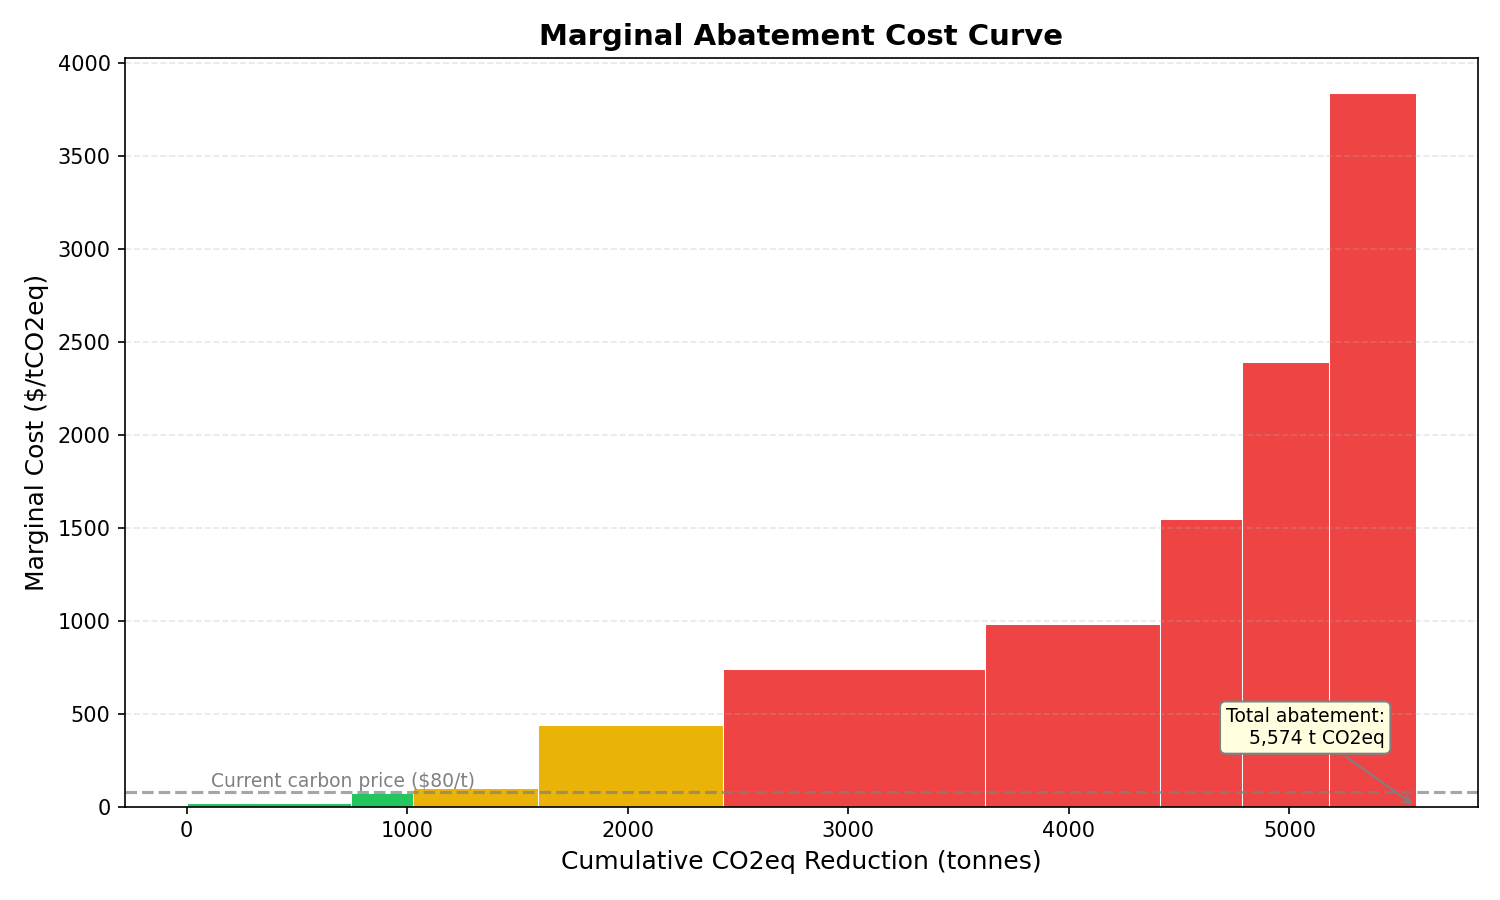
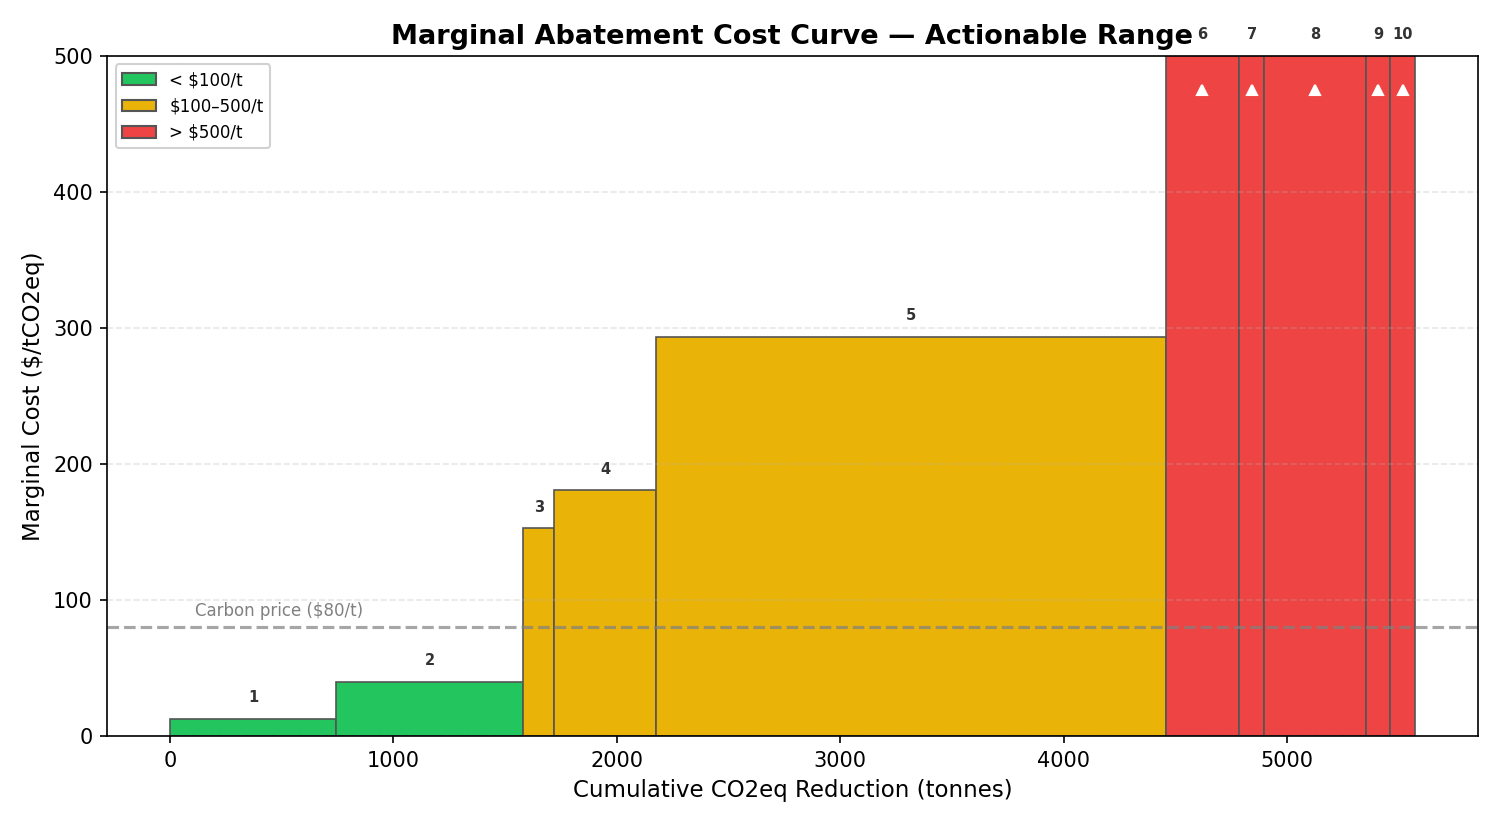
feat: improve MACC chart with dual views, numbered bars, and reference table
- Add linear capped ($500) version for presentation slides
- Add log-scale full-range version for appendix
- Number bars and print reference table to console
- Increase Pareto resolution from 15 to 50 points
- Add color-coded legend and visible bar edges

diff --git a/src/charts.py b/src/charts.py
@@ -291,25 +291,20 @@ def plot_safety_comparison(
 def plot_macc(
     pareto_results: list[dict[str, Any]],
     output_path: str = "outputs/charts/macc.png",
-) -> str:
+) -> tuple[str, str]:
     """
     Plot Marginal Abatement Cost Curve (MACC) from Pareto frontier data.
 
-    Each bar represents a Pareto step: width = CO2 reduction, height = shadow carbon price.
-    Bars are colored by cost: green (<$100/t), yellow ($100-$500/t), red (>$500/t).
+    Produces two charts:
+    - Linear version (capped y-axis) for presentation slides → output_path
+    - Log-scale full-range version for appendix → macc_full_range.png
 
-    Parameters
-    ----------
-    pareto_results : list[dict]
-        Output from run_pareto_sweep(). Each dict has keys:
-        feasible, total_co2e_tonnes, total_cost_usd, shadow_carbon_price.
-    output_path : str
-        File path for the saved PNG.
+    Each bar is numbered and keyed to a reference table printed to console.
 
     Returns
     -------
-    str
-        The path to the saved chart file.
+    tuple[str, str]
+        (linear_chart_path, log_chart_path)
     """
     # Filter to feasible points with a shadow_carbon_price
     steps = [
@@ -319,12 +314,12 @@ def plot_macc(
 
     if not steps:
         print("WARNING: No feasible Pareto points with shadow prices to plot MACC.")
-        return output_path
+        return output_path, output_path
 
     # Sort by shadow_carbon_price ascending (cheapest abatement first)
     steps.sort(key=lambda r: r["shadow_carbon_price"])
 
-    # Base case is the max-emissions feasible point (first feasible point, no shadow price)
+    # Base case is the max-emissions feasible point
     base_co2 = max(
         r["total_co2e_tonnes"]
         for r in pareto_results
@@ -335,6 +330,7 @@ def plot_macc(
     bar_widths = []
     bar_heights = []
     bar_lefts = []
+    bar_steps = []  # keep step data for reference table
     cumulative = 0.0
 
     for step in steps:
@@ -345,70 +341,124 @@ def plot_macc(
         bar_lefts.append(cumulative)
         bar_widths.append(width)
         bar_heights.append(step["shadow_carbon_price"])
+        bar_steps.append(step)
         cumulative = reduction
 
     if not bar_widths:
         print("WARNING: No positive CO2 reduction steps for MACC.")
-        return output_path
+        return output_path, output_path
 
-    # Color bars by cost: green < $100, yellow $100-$500, red > $500
+    n_bars = len(bar_widths)
+
+    # Color bars by cost tier
     bar_colors = []
+    tier_labels = []
     for h in bar_heights:
         if h < 100:
             bar_colors.append("#22c55e")  # green
+            tier_labels.append("Low")
         elif h < 500:
             bar_colors.append("#eab308")  # yellow
+            tier_labels.append("Mid")
         else:
             bar_colors.append("#ef4444")  # red
+            tier_labels.append("High")
 
-    fig, ax = plt.subplots(figsize=(10, 6))
-
-    # Draw bars (waterfall-style step bars)
-    ax.bar(
-        bar_lefts,
-        bar_heights,
-        width=bar_widths,
-        align="edge",
-        color=bar_colors,
-        edgecolor="white",
-        linewidth=0.5,
-    )
-
-    # Reference line at current carbon price ($80/t)
-    ax.axhline(y=80, color="gray", linestyle="--", linewidth=1.5, alpha=0.7)
-    ax.text(
-        cumulative * 0.02,
-        82,
-        "Current carbon price ($80/t)",
-        fontsize=9,
-        color="gray",
-        va="bottom",
-    )
-
-    # Annotate total abatement potential
-    ax.annotate(
-        f"Total abatement:\n{cumulative:,.0f} t CO2eq",
-        xy=(cumulative, 0),
-        xytext=(-15, 30),
-        textcoords="offset points",
-        fontsize=9,
-        ha="right",
-        arrowprops=dict(arrowstyle="->", color="gray"),
-        bbox=dict(boxstyle="round,pad=0.3", facecolor="lightyellow", edgecolor="gray"),
-    )
-
-    ax.set_xlabel("Cumulative CO2eq Reduction (tonnes)", fontsize=12)
-    ax.set_ylabel("Marginal Cost ($/tCO2eq)", fontsize=12)
-    ax.set_title("Marginal Abatement Cost Curve", fontsize=14, fontweight="bold")
-    ax.grid(True, alpha=0.3, linestyle="--", axis="y")
-
-    plt.tight_layout()
+    # Print reference table
+    print(f"\n  MACC Reference Table ({n_bars} abatement steps)")
+    print(f"  {'#':>3}  {'Tier':<5} {'Marginal Cost':>14} {'CO2 Reduced':>12} {'Cumulative':>12}")
+    print(f"  {'---':>3}  {'-----':<5} {'-' * 14:>14} {'-' * 12:>12} {'-' * 12:>12}")
+    running = 0.0
+    for i, (w, h, t) in enumerate(zip(bar_widths, bar_heights, tier_labels), 1):
+        running += w
+        print(f"  {i:>3}  {t:<5} {'${:,.0f}/t'.format(h):>14} {'{:,.0f} t'.format(w):>12} {'{:,.0f} t'.format(running):>12}")
 
     os.makedirs(os.path.dirname(output_path), exist_ok=True)
-    fig.savefig(output_path, dpi=150)
-    plt.close(fig)
 
-    return output_path
+    def _draw_macc(ax, yscale, y_cap=None):
+        """Draw MACC bars on the given axes."""
+        ax.bar(
+            bar_lefts,
+            bar_heights,
+            width=bar_widths,
+            align="edge",
+            color=bar_colors,
+            edgecolor="#555555",
+            linewidth=0.8,
+        )
+
+        if yscale == "log":
+            ax.set_yscale("log")
+            ax.set_ylim(bottom=max(0.5, min(bar_heights) * 0.5))
+
+        if y_cap is not None:
+            ax.set_ylim(top=y_cap)
+            # Mark truncated bars with a small triangle at cap
+            for i, (left, w, h) in enumerate(zip(bar_lefts, bar_widths, bar_heights)):
+                if h > y_cap:
+                    ax.plot(
+                        left + w / 2, y_cap * 0.95,
+                        marker="^", color="white", markersize=5, zorder=5,
+                    )
+
+        # Bar number labels
+        for i, (left, w, h) in enumerate(zip(bar_lefts, bar_widths, bar_heights), 1):
+            display_h = min(h, y_cap) if y_cap else h
+            if yscale == "log":
+                label_y = h * 1.2
+            else:
+                label_y = min(h, y_cap if y_cap else h) + (y_cap or max(bar_heights)) * 0.02
+            ax.text(
+                left + w / 2,
+                label_y,
+                str(i),
+                ha="center",
+                va="bottom",
+                fontsize=7,
+                fontweight="bold",
+                color="#333333",
+            )
+
+        # Reference line at current carbon price ($80/t)
+        ax.axhline(y=80, color="gray", linestyle="--", linewidth=1.5, alpha=0.7)
+        ref_y = 85 if yscale == "log" else 85
+        ax.text(
+            cumulative * 0.02, ref_y,
+            "Carbon price ($80/t)",
+            fontsize=8, color="gray", va="bottom",
+        )
+
+        # Legend for tiers
+        from matplotlib.patches import Patch
+        legend_elements = [
+            Patch(facecolor="#22c55e", edgecolor="#555", label="< $100/t"),
+            Patch(facecolor="#eab308", edgecolor="#555", label="$100–500/t"),
+            Patch(facecolor="#ef4444", edgecolor="#555", label="> $500/t"),
+        ]
+        ax.legend(handles=legend_elements, loc="upper left", fontsize=8, framealpha=0.9)
+
+        ax.set_xlabel("Cumulative CO2eq Reduction (tonnes)", fontsize=11)
+        ax.set_ylabel("Marginal Cost ($/tCO2eq)", fontsize=11)
+        ax.grid(True, alpha=0.3, linestyle="--", axis="y")
+
+    # --- Chart 1: Linear, capped at $500 (presentation slide) ---
+    fig1, ax1 = plt.subplots(figsize=(10, 5.5))
+    _draw_macc(ax1, yscale="linear", y_cap=500)
+    ax1.set_title("Marginal Abatement Cost Curve — Actionable Range", fontsize=13, fontweight="bold")
+    plt.tight_layout()
+    fig1.savefig(output_path, dpi=150)
+    plt.close(fig1)
+
+    # --- Chart 2: Log scale, full range (appendix) ---
+    log_path = output_path.replace("macc.png", "macc_full_range.png")
+    fig2, ax2 = plt.subplots(figsize=(10, 5.5))
+    _draw_macc(ax2, yscale="log")
+    ax2.set_title("Marginal Abatement Cost Curve — Full Range (Log Scale)", fontsize=13, fontweight="bold")
+    plt.tight_layout()
+    fig2.savefig(log_path, dpi=150)
+    plt.close(fig2)
+
+    return output_path, log_path
 
 
 def plot_carbon_sweep(

diff --git a/run.py b/run.py
@@ -330,8 +330,9 @@ def main() -> None:
         chart_path = plot_pareto_frontier(pareto_results)
         print(f"Pareto chart saved to: {chart_path}")
 
-        macc_path = plot_macc(pareto_results)
+        macc_path, macc_log_path = plot_macc(pareto_results)
         print(f"MACC chart saved to: {macc_path}")
+        print(f"MACC full-range chart saved to: {macc_log_path}")
 
         print("=" * 60)
 

diff --git a/src/sensitivity.py b/src/sensitivity.py
@@ -160,7 +160,7 @@ def _solve_min_co2(
 
 def run_pareto_sweep(
     df: pd.DataFrame,
-    n_points: int = 15,
+    n_points: int = 50,
     cargo_demand: float = MONTHLY_DEMAND,
     min_avg_safety: float = SAFETY_THRESHOLD,
     require_all_fuel_types: bool = True,
